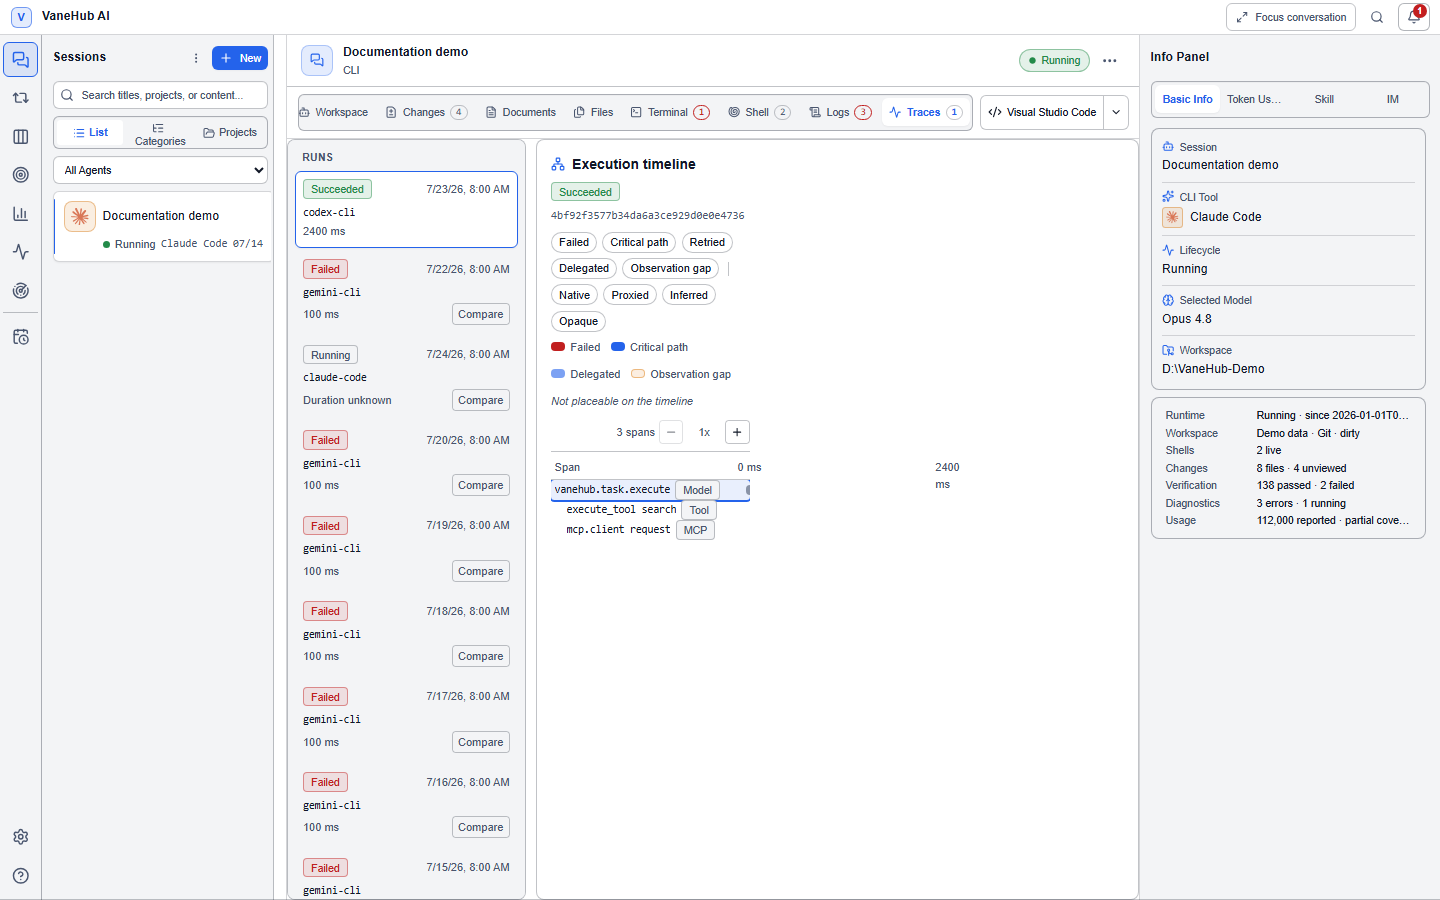
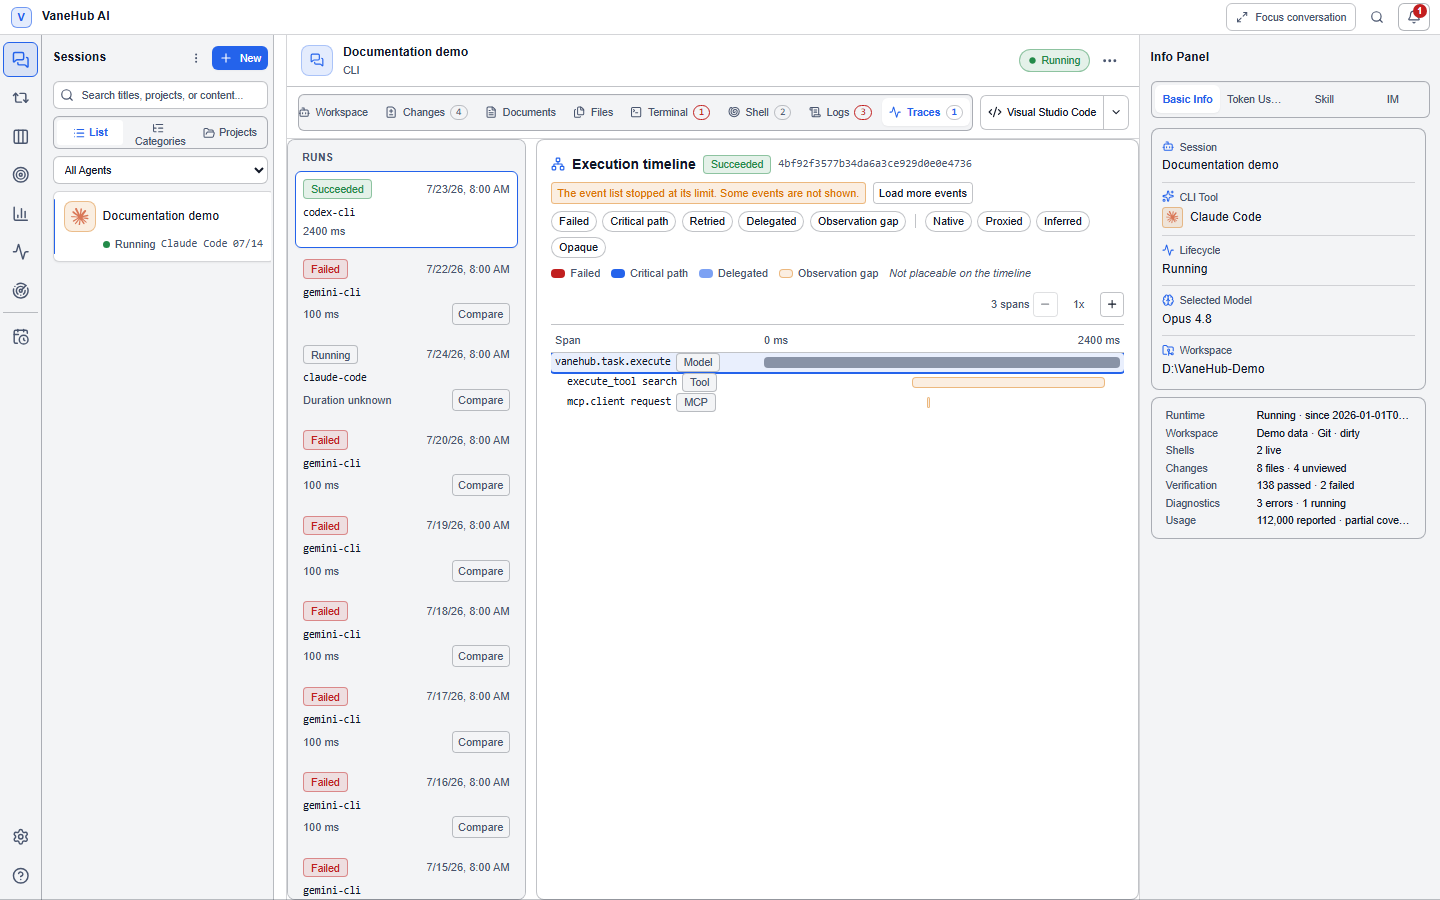
fix(traces): keep the last axis tick inside the waterfall, and refresh the docs
The documentation screenshot job caught the Traces captures drifting, which is
correct -- this branch changed that panel. Regenerating them showed a defect
worth fixing before the screenshot recorded it.

Every tick was centred on its own position. That is right for the ticks in the
middle and wrong at the ends: an absolutely positioned box at `left: 100%` has
no room to lay out, so it shrank to its minimum content width and broke
"2400 ms" across two lines inside a 16px row, then `-translate-x-1/2` left half
of what remained past the panel edge. Shifting each label by its own position
instead leaves the first flush left, the last flush right, and the rest centred
exactly as before.

This was latent until now: the axis previously measured the full viewport
rather than the viewport minus the label column, so the waterfall occupied
about half its panel and the last tick landed well inside it. Fixing the width
is what moved that tick to the edge.

Only the two Traces screenshots are updated. `docs:screenshots:update` rewrites
all 62 captures, but the other 60 still matched on check, so their committed
versions stand rather than taking 60 files of encoder churn.

Verified: `docs:screenshots:check` 62 passed, `traces-panel.visual.spec.ts`
6 passed, trace unit tests 41 passed, lint and architecture clean.

Changed region(s): [[0.375, 0.1556, 0.7812, 0.4978], [0.375, 0.4978, 0.5312, 0.5911]]

diff --git a/src/session-workspace/trace-waterfall.tsx b/src/session-workspace/trace-waterfall.tsx
@@ -106,15 +106,26 @@ export function TraceWaterfall({
           >
             <span>{t("traces.spanColumn")}</span>
             <div className="relative h-4">
-              {ticks.map((tick, index) => (
-                <span
-                  className="absolute -translate-x-1/2 tabular-nums"
-                  key={tick}
-                  style={{ insetInlineStart: `${(index / (ticks.length - 1)) * 100}%` }}
-                >
-                  {t("traces.axisTick", { offset: tick })}
-                </span>
-              ))}
+              {ticks.map((tick, index) => {
+                // Centring every tick puts half the last one past the right edge, where it has no
+                // room to lay out: an absolutely positioned box at `left: 100%` shrinks to its
+                // minimum content width and breaks "2400 ms" across two lines inside a 16px row.
+                // Shifting each label by its own position instead leaves the first flush left, the
+                // last flush right, and everything between centred as before.
+                const position = ticks.length > 1 ? index / (ticks.length - 1) : 0;
+                return (
+                  <span
+                    className="absolute whitespace-nowrap tabular-nums"
+                    key={tick}
+                    style={{
+                      insetInlineStart: `${position * 100}%`,
+                      transform: `translateX(-${position * 100}%)`,
+                    }}
+                  >
+                    {t("traces.axisTick", { offset: tick })}
+                  </span>
+                );
+              })}
             </div>
           </div>
           <MeasuredVirtualList
